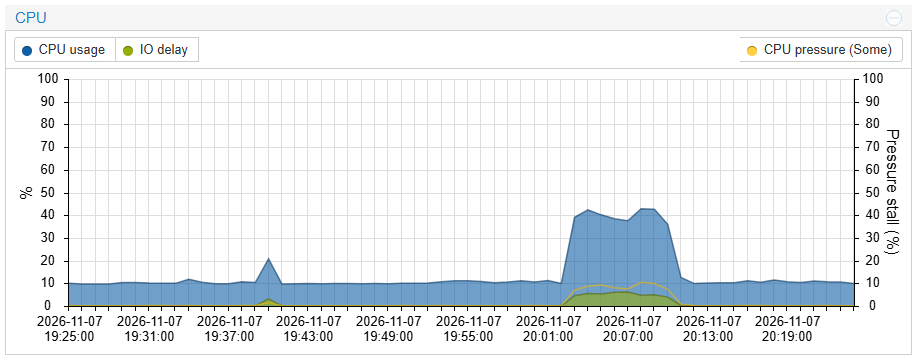
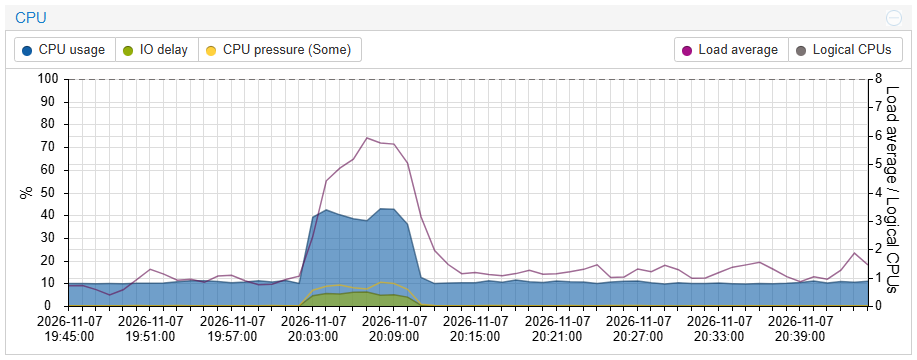
updates

diff --git a/src/modules/node_info/files/PveMods_pvemanagerlib.js b/src/modules/node_info/files/PveMods_pvemanagerlib.js
@@ -409,7 +409,10 @@ function renderUpsSummary(info) {
         const bar = chargeAvailable
             ? `<div class="x-progress x-progress-default ${capacityClass}" role="progressbar" aria-label="${encode(gettext('Battery capacity'))}" aria-valuemin="0" aria-valuemax="100" aria-valuenow="${charge}" aria-valuetext="${capacityLabel}" title="${capacityLabel}" style="height: 5px; margin-top: 3px;"><div class="x-progress-bar x-progress-bar-default" style="height: 5px; width: ${charge}%;"></div></div>`
             : '';
-        return `<tr><td style="width: 50%; padding: 2px 10px 2px 20px; vertical-align: top; overflow-wrap: anywhere;">${encode(data['ups.model'] || data['device.model'] || key)}</td>`
+        const serial = data['ups.serial'] || data['device.serial'];
+        const modelLabel = encode(data['ups.model'] || data['device.model'] || key)
+            + (serial ? ` (${encode(serial)})` : '');
+        return `<tr><td style="width: 50%; padding: 2px 10px 2px 20px; vertical-align: top; overflow-wrap: anywhere;">${modelLabel}</td>`
             + `<td style="width: 50%; padding: 2px 0 2px 10px; text-align: right; vertical-align: top; overflow-wrap: anywhere;">${summary}${bar}</td></tr>`;
     });
     return `<table style="width: 100%; table-layout: fixed; border-collapse: collapse;">${rows.join('')}</table>`;
@@ -1701,17 +1704,28 @@ Ext.define('PVE.mod.SummaryChart', {
                 legend.el.down('.x-legend-inner').setStyle('width', '100%');
                 container.setStyle({ display: 'flex', width: '100%', 'text-align': 'left' });
                 let firstRight = true;
-                legend.el.query('.x-legend-item').forEach(item => {
+                const items = legend.el.query('.x-legend-item');
+                const firstStyle = items.length ? getComputedStyle(items[0]) : null;
+                items.forEach((item, index) => {
                     const record = legend.getStore().getAt(Number(item.getAttribute('data-recordindex')));
                     const series = me.getSeries().map[record.get('series')];
                     const right = series.getYAxis().getPosition() === 'right';
-                    item.style.marginLeft = right && firstRight ? 'auto' : '';
+                    const startsRight = right && firstRight;
+                    item.style.marginLeft = startsRight ? 'auto' : '';
+                    item.style.borderLeft = startsRight ? firstStyle.borderLeft : '';
+                    item.style.borderTopLeftRadius = startsRight ? firstStyle.borderTopLeftRadius : '';
+                    item.style.borderBottomLeftRadius = startsRight ? firstStyle.borderBottomLeftRadius : '';
                     if (right) {
                         firstRight = false;
+                    }
+                    if (startsRight && index > 0) {
+                        items[index - 1].style.borderTopRightRadius = firstStyle.borderTopLeftRadius;
+                        items[index - 1].style.borderBottomRightRadius = firstStyle.borderBottomLeftRadius;
                     }
                 });
             };
             me.mon(legend, 'refresh', alignLegend);
+            me.mon(legend, 'itemupdate', alignLegend);
             me.mon(legend, 'afterrender', alignLegend);
         }
     },
@@ -2087,29 +2101,50 @@ Ext.define('PVE.node.Summary', {
                                 yField: 'pressurecpusome',
                                 title: gettext('CPU pressure (Some)'),
                                 fill: false,
+                            }, {
+                                yField: 'loadavg',
+                                title: gettext('Load average'),
+                                fill: false,
+                                tooltip: {
+                                    trackMouse: true,
+                                    renderer: function(tooltip, record) {
+                                        const value = record.get('loadavg');
+                                        tooltip.setHtml(value === null || value === undefined
+                                            ? gettext('No Data')
+                                            : `${gettext('Load average')}: ${Ext.util.Format.number(value, '0.##')}<br>${new Date(record.get('time'))}`);
+                                    },
+                                },
+                            }, {
+                                yField: 'maxcpu',
+                                title: gettext('Logical CPUs'),
+                                fill: false,
+                                style: { lineWidth: 1.5, lineDash: [6, 4], opacity: 1 },
+                                tooltip: {
+                                    trackMouse: true,
+                                    renderer: function(tooltip, record) {
+                                        const value = record.get('maxcpu');
+                                        tooltip.setHtml(value === null || value === undefined
+                                            ? gettext('No Data')
+                                            : `${gettext('Logical CPUs')}: ${Ext.util.Format.number(value, '0')}<br>${new Date(record.get('time'))}`);
+                                    },
+                                },
                             }],
-                            fieldTitles: [gettext('CPU usage'), gettext('IO delay'), gettext('CPU pressure (Some)')],
-                            colors: ['#115fa6', '#94ae0a', '#FFD13E'],
+                            fieldTitles: [gettext('CPU usage'), gettext('IO delay'), gettext('CPU pressure (Some)'),
+                                gettext('Load average'), gettext('Logical CPUs')],
+                            colors: ['#115fa6', '#94ae0a', '#FFD13E', '#a61187', '#7c7474'],
                             axes: [
                                 {
-                                    type: 'numeric', position: 'left', fields: ['cpu', 'iowait'],
+                                    type: 'numeric', position: 'left', fields: ['cpu', 'iowait', 'pressurecpusome'],
                                     minimum: 0, maximum: 100, grid: true, renderer: 'leftAxisRenderer',
                                 },
                                 {
-                                    type: 'numeric', position: 'right', fields: ['pressurecpusome'],
-                                    minimum: 0, maximum: 100, title: gettext('Pressure stall (%)'),
+                                    type: 'numeric', position: 'right', fields: ['loadavg', 'maxcpu'],
+                                    minimum: 0, title: gettext('Load average / Logical CPUs'),
                                     renderer: (axis, value) => Ext.util.Format.number(value, '0.##'),
                                 },
                                 { type: 'time', position: 'bottom', fields: ['time'], grid: true },
                             ],
                             unit: 'percent',
-                            store: rrdstore,
-                        },
-                        {
-                            xtype: 'pveModSummaryChart',
-                            title: gettext('Server Load'),
-                            fields: ['loadavg'],
-                            fieldTitles: [gettext('Load average')],
                             store: rrdstore,
                         },
                         {

diff --git a/src/modules/node_info/readme.md b/src/modules/node_info/readme.md
@@ -144,9 +144,14 @@ Configuration: `device_name=ups@localhost`
 
 ### CPU and memory graphs
 
-The node summary CPU and Memory graphs include the matching pressure stall (PSI) series on a secondary right-hand axis, instead of separate pressure graphs. The CPU graph adds CPU pressure (Some); the Memory graph adds memory pressure (Some and Full).
+The node summary CPU and Memory graphs include the matching pressure stall (PSI) series instead of separate pressure graphs.
 
-![CPU graph with CPU pressure on the right axis](images/cpu-dual-axis.png)
+The CPU graph plots CPU usage, IO delay and CPU pressure (Some) on the left (%) axis. The right axis shows load average together with the number of logical CPUs (dashed line), so you can see at a glance when the load exceeds the available CPUs.
+
+![CPU graph with CPU usage on the left axis and load average on the right](images/cpu-dual-axis.png)
+
+The Memory graph shows memory usage on the left axis and memory pressure (Some and Full) on the right.
+
 
 ![Memory graph with memory pressure on the right axis](images/memory-dual-axis.png)
 
